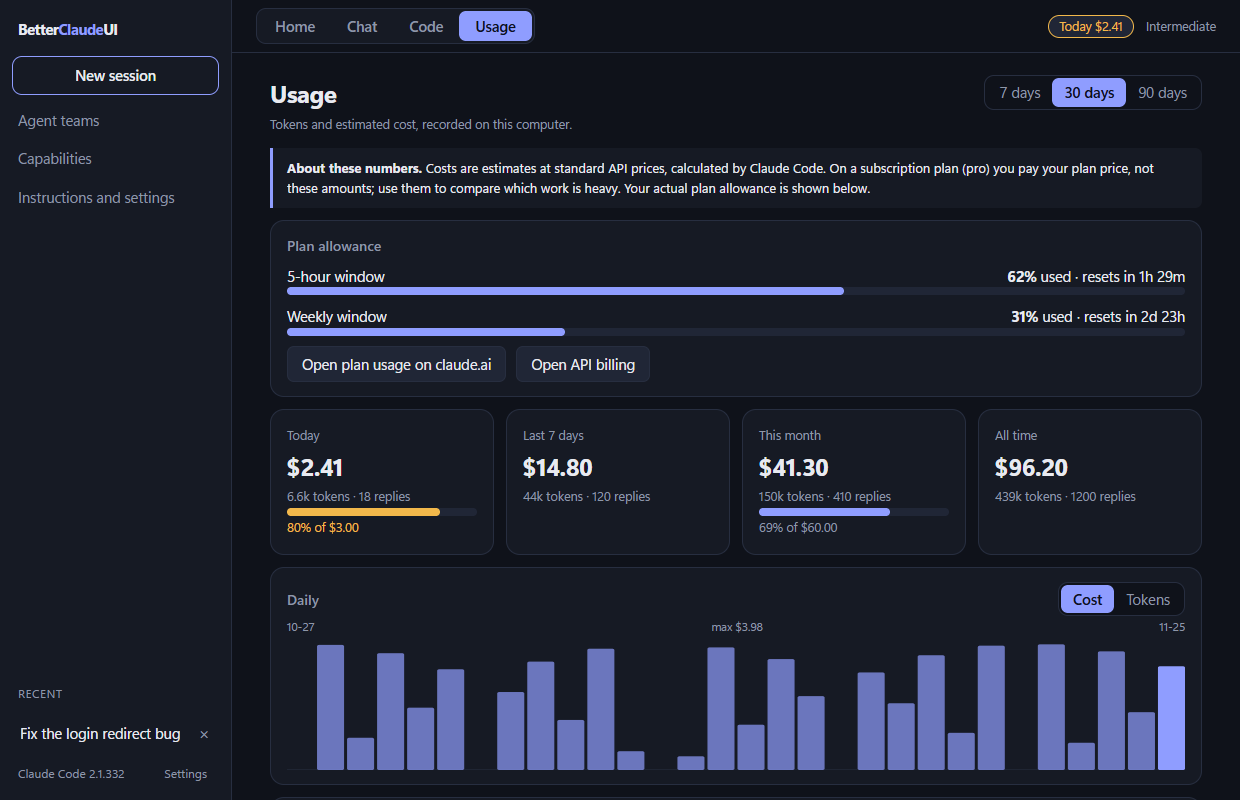
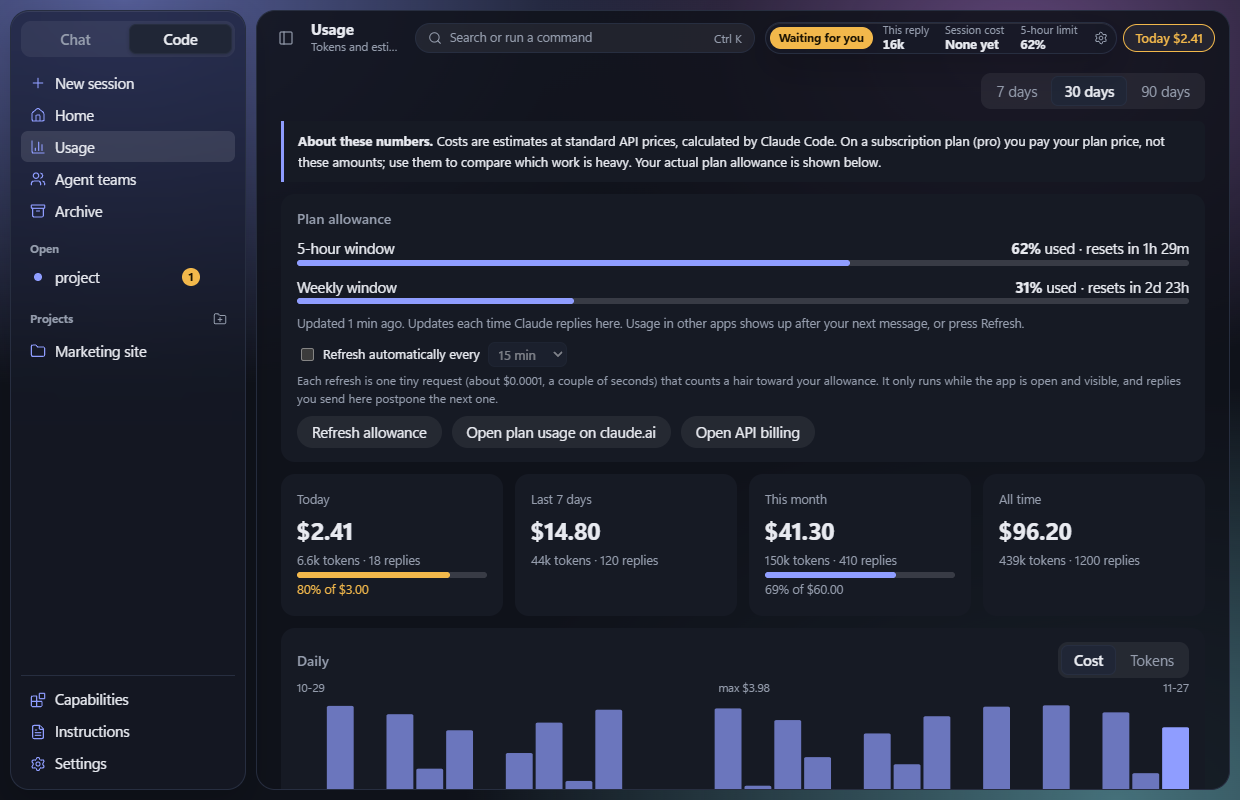
README screenshots for the new layout (stage 7, task 18)

diff --git a/README.md b/README.md
@@ -7,8 +7,8 @@ A lightweight desktop UI for [Claude Code](https://claude.com/claude-code): the 
 ## Screenshots
 | | |
 |---|---|
-| ![Home dashboard](docs/screenshots/home.png) | ![Usage and billing](docs/screenshots/usage.png) |
-| ![Terminal style](docs/screenshots/terminal-style.png) | ![Slash commands](docs/screenshots/slash-commands.png) |
+| ![A coding session asking for permission, with the usage widget](docs/screenshots/session.png) | ![Home with the message box](docs/screenshots/home.png) |
+| ![Usage and billing](docs/screenshots/usage.png) | ![Appearance settings](docs/screenshots/settings.png) |
 
 _(Screenshots use demo data.)_
 
